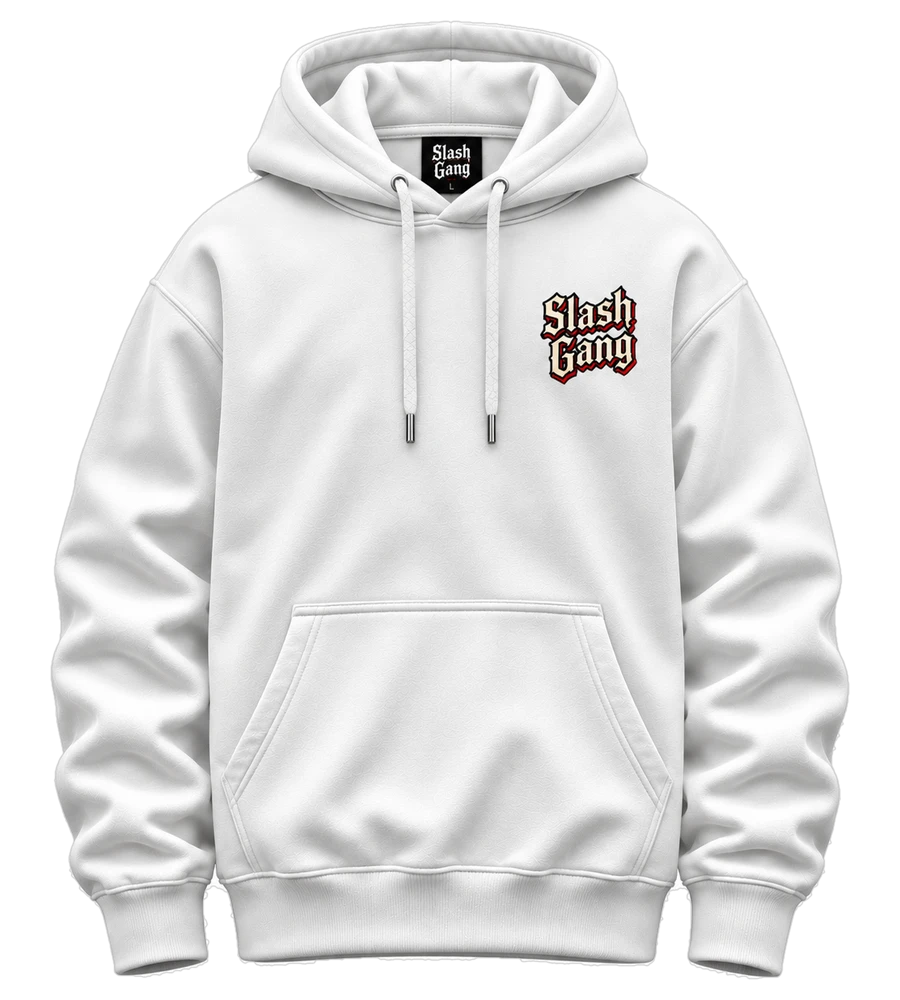
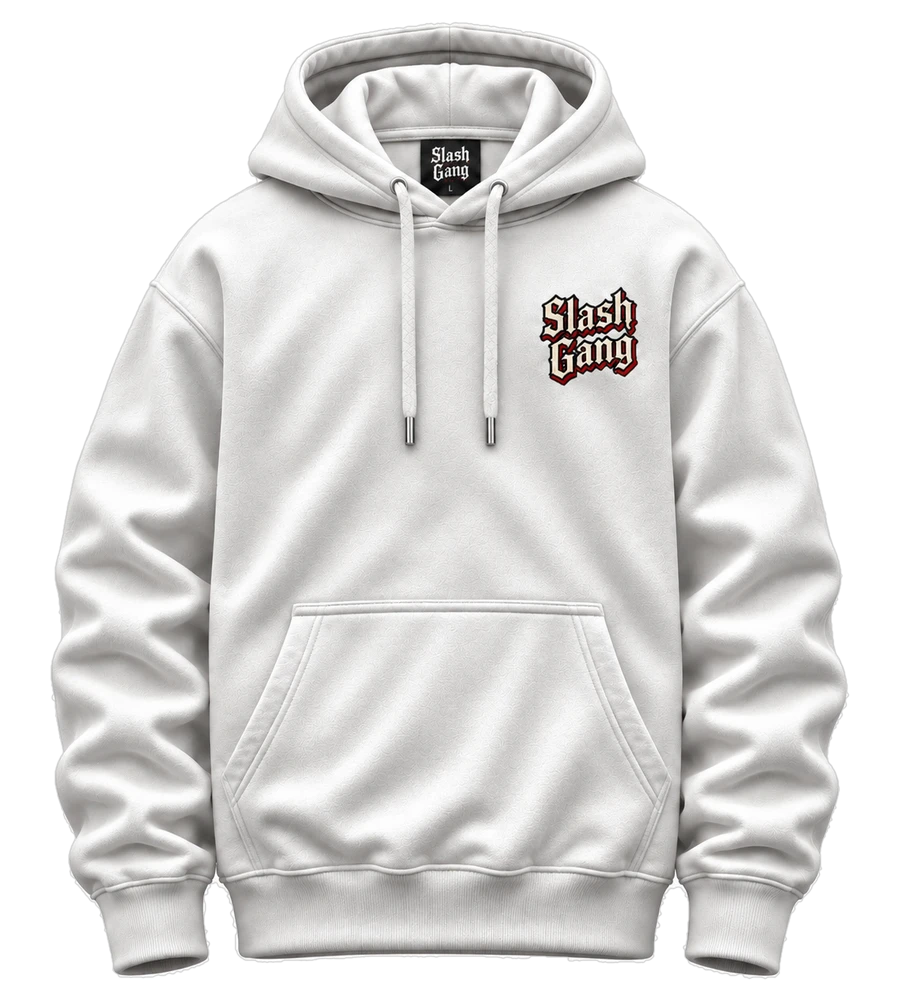
Store: update white hoodie front image
Claude-Session: https://claude.ai/code/session_01P13hFbXEhDS5pok4XEjrJv

diff --git a/shop/index.html b/shop/index.html
@@ -248,7 +248,7 @@ var PRODUCTS=[
  {id:'hoodie-black',name:'Samurai Skull Hoodie',color:{ja:'ブラック',en:'Black'},hex:'#111',price:0,f:'img/bk-f.webp',b:'img/bk-b.webp',
   desc:{ja:'胸に「Slash Gang」ロゴ、背中にクラブを象徴するサムライスカルを大きくプリント。',en:'“Slash Gang” logo on the chest, the club’s samurai skull printed big on the back.'},
   sizes:['S','M','L','XL','XXL'],soldout:[],link:'',links:{}},
- {id:'hoodie-white',name:'Samurai Skull Hoodie',color:{ja:'ホワイト',en:'White'},hex:'#eee',price:0,f:'img/wh-f.webp',b:'img/wh-b.webp',
+ {id:'hoodie-white',name:'Samurai Skull Hoodie',color:{ja:'ホワイト',en:'White'},hex:'#eee',price:0,f:'img/wh-f.webp?v=2',b:'img/wh-b.webp',
   desc:{ja:'胸に「Slash Gang」ロゴ、背中にクラブを象徴するサムライスカルを大きくプリント。',en:'“Slash Gang” logo on the chest, the club’s samurai skull printed big on the back.'},
   sizes:['S','M','L','XL','XXL'],soldout:[],link:'',links:{}}
 ];
